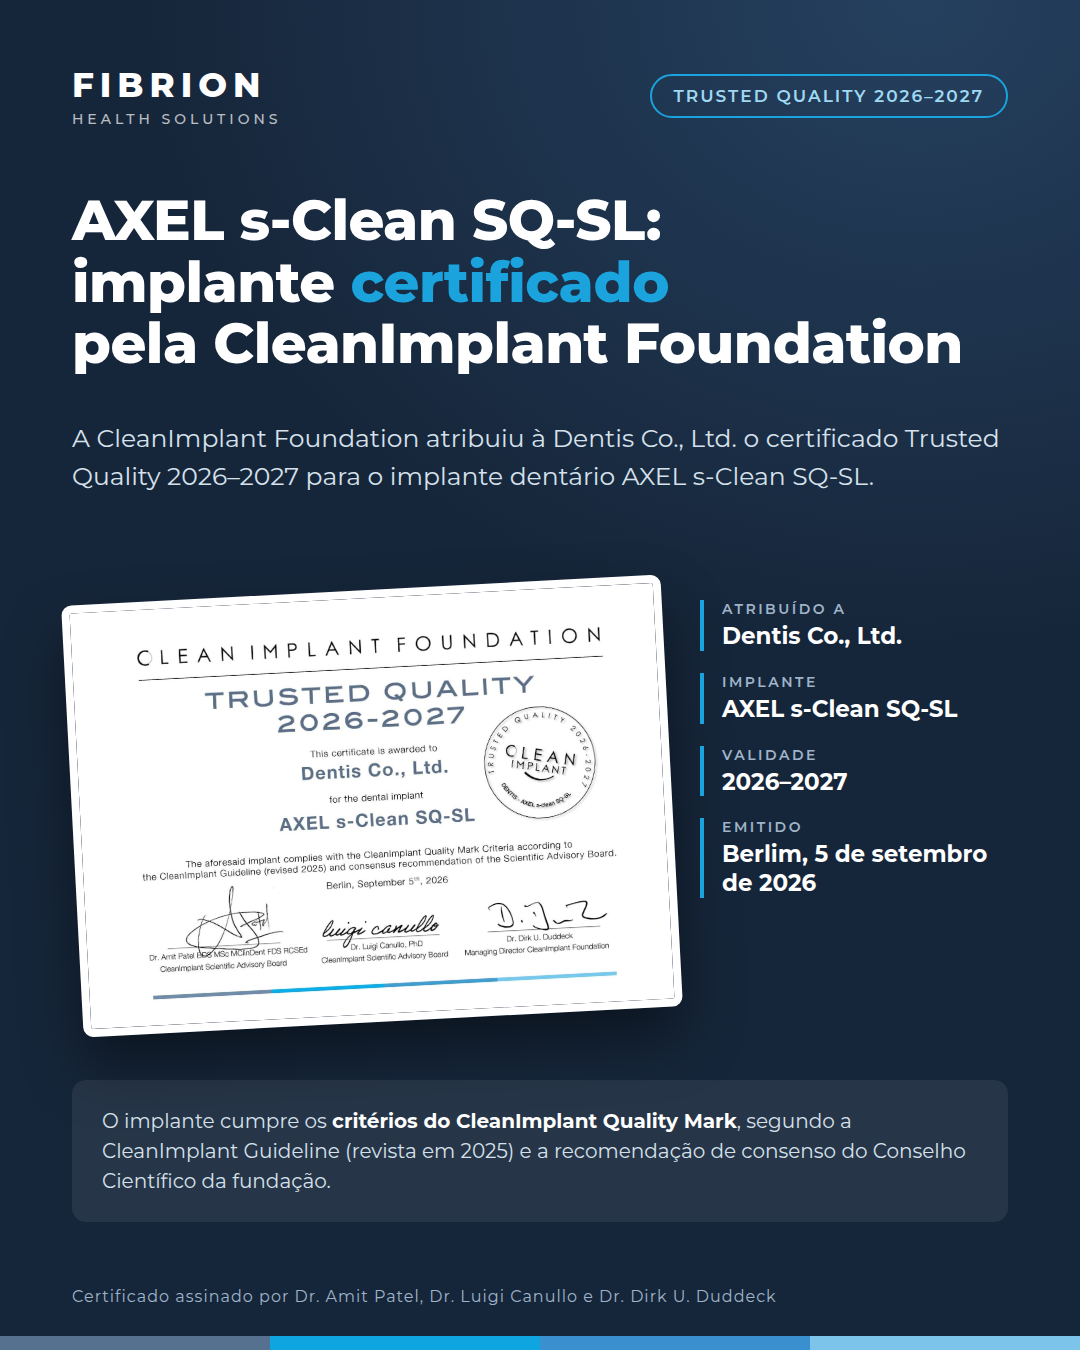
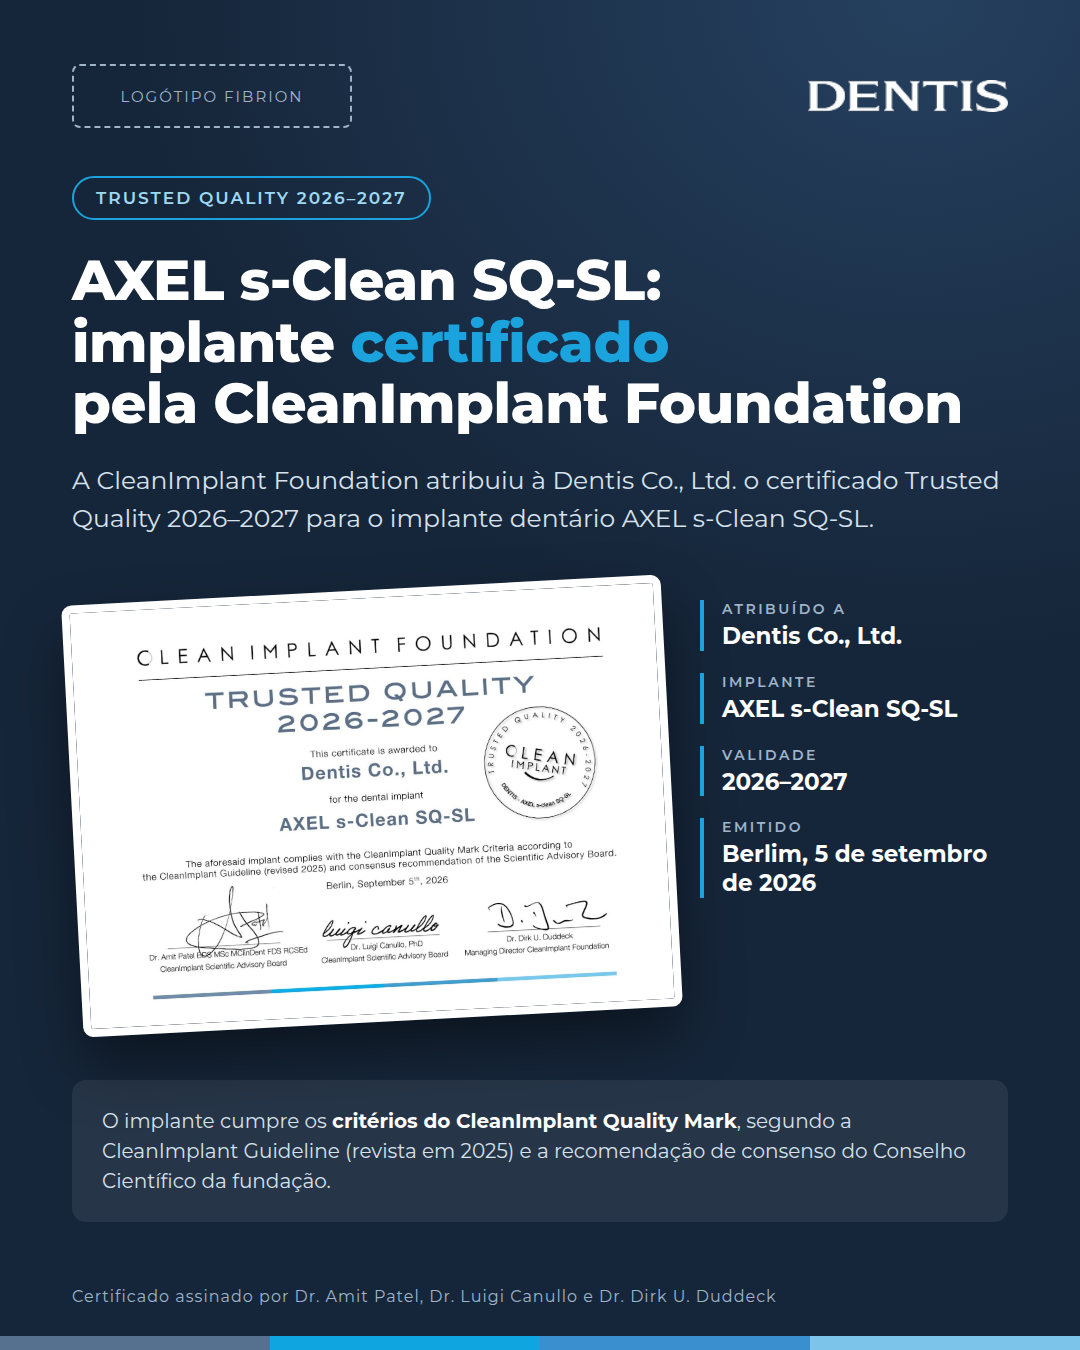
Troca o texto Fibrion por espaço para o logótipo e acrescenta o logótipo da Dentis ao post
Claude-Session: https://claude.ai/code/session_01E9ELStwn9s95wuSx8AoZcQ

Changed region(s): [[0.0611, 0.1244, 0.9167, 0.4044], [0.6111, 0.0311, 0.9472, 0.0933], [0.0611, 0.0311, 0.275, 0.0933]]

diff --git a/entregas/clean-implant/post-fibrion.html b/entregas/clean-implant/post-fibrion.html
@@ -18,13 +18,14 @@
     background: radial-gradient(120% 80% at 85% 0%, #25405f 0%, var(--noite) 60%);
   }
   .topo { position: absolute; top: 64px; left: 72px; right: 72px; display: flex; justify-content: space-between; align-items: center; }
-  .marca { font-weight: 800; font-size: 34px; letter-spacing: 6px; }
-  .marca small { display: block; font-weight: 500; font-size: 14px; letter-spacing: 4px; opacity: .7; margin-top: 4px; }
-  .etiqueta { border: 2px solid var(--ceu); color: #9fd8f2; border-radius: 40px; padding: 10px 22px; font-weight: 600; font-size: 17px; letter-spacing: 2px; }
+  .logo-fibrion { height: 64px; max-width: 360px; object-fit: contain; object-position: left center; }
+  .logo-falta { display: none; height: 64px; width: 280px; border: 2px dashed #9fb4c9; border-radius: 8px; color: #9fb4c9; font-size: 15px; letter-spacing: 2px; align-items: center; justify-content: center; }
+  .logo-dentis { width: 200px; }
+  .etiqueta { position: absolute; top: 176px; left: 72px; border: 2px solid var(--ceu); color: #9fd8f2; border-radius: 40px; padding: 10px 22px; font-weight: 600; font-size: 17px; letter-spacing: 2px; }
 
-  h1 { position: absolute; top: 190px; left: 72px; right: 72px; font-weight: 800; font-size: 56px; line-height: 1.1; letter-spacing: -.5px; }
+  h1 { position: absolute; top: 250px; left: 72px; right: 72px; font-weight: 800; font-size: 56px; line-height: 1.1; letter-spacing: -.5px; }
   h1 em { font-style: normal; color: var(--ceu); }
-  .lead { position: absolute; top: 420px; left: 72px; right: 72px; font-size: 25px; line-height: 1.5; color: #d6e1ec; }
+  .lead { position: absolute; top: 462px; left: 72px; right: 72px; font-size: 25px; line-height: 1.5; color: #d6e1ec; }
 
   .cert {
     position: absolute; top: 590px; left: 72px; width: 600px;
@@ -50,9 +51,12 @@
 </head>
 <body>
   <div class="topo">
-    <div class="marca">FIBRION<small>HEALTH SOLUTIONS</small></div>
-    <div class="etiqueta">TRUSTED QUALITY 2026–2027</div>
+    <img class="logo-fibrion" src="logo-fibrion.png" alt="Fibrion Health Solutions"
+         onerror="this.style.display='none'; this.nextElementSibling.style.display='flex'">
+    <div class="logo-falta">LOGÓTIPO FIBRION</div>
+    <img class="logo-dentis" src="logo-dentis-branco.png" alt="Dentis">
   </div>
+  <div class="etiqueta">TRUSTED QUALITY 2026–2027</div>
 
   <h1>AXEL s-Clean SQ-SL:<br>implante <em>certificado</em><br>pela CleanImplant Foundation</h1>
 
